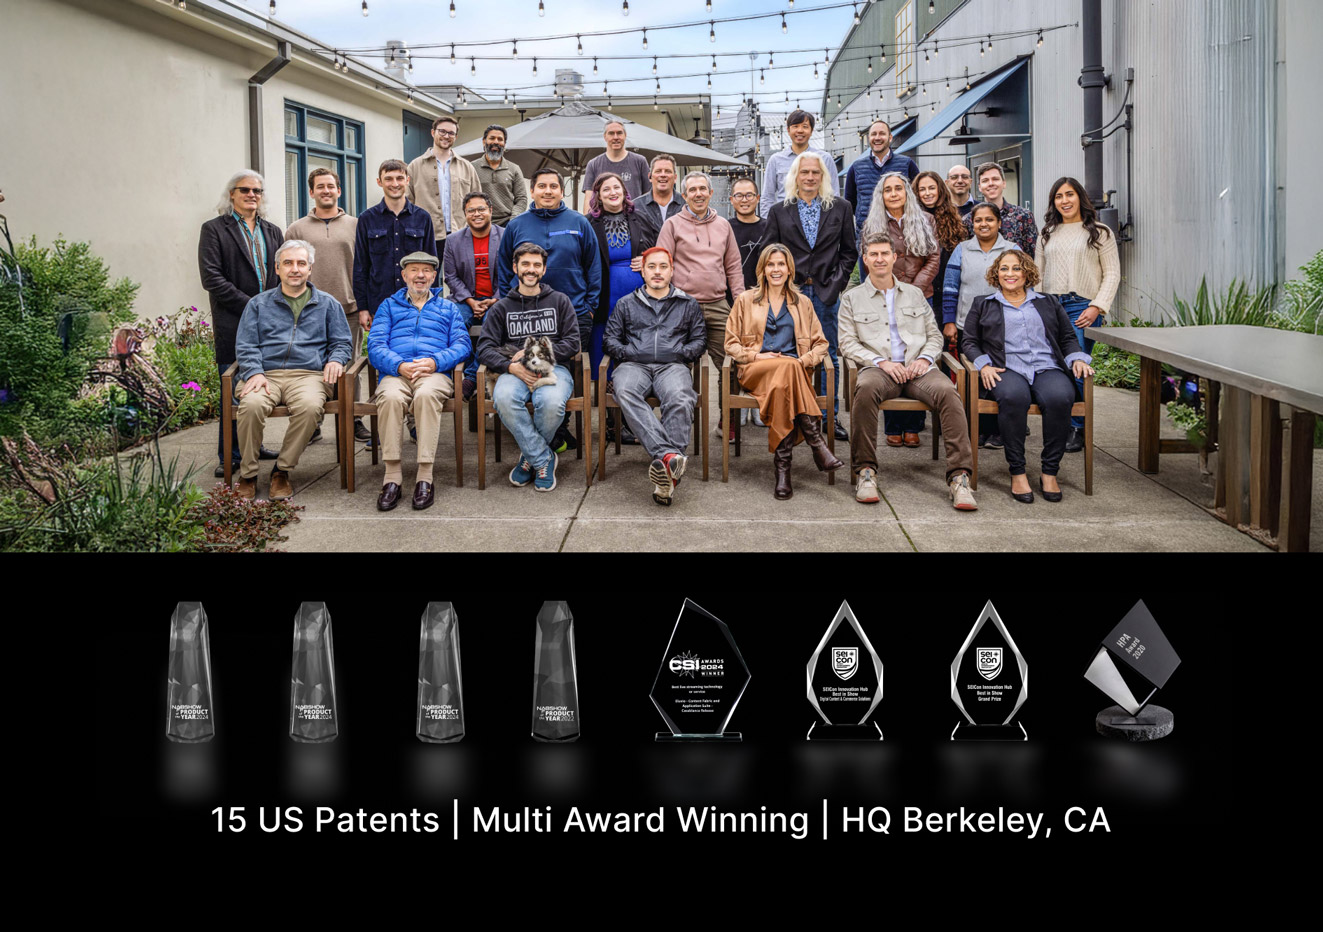
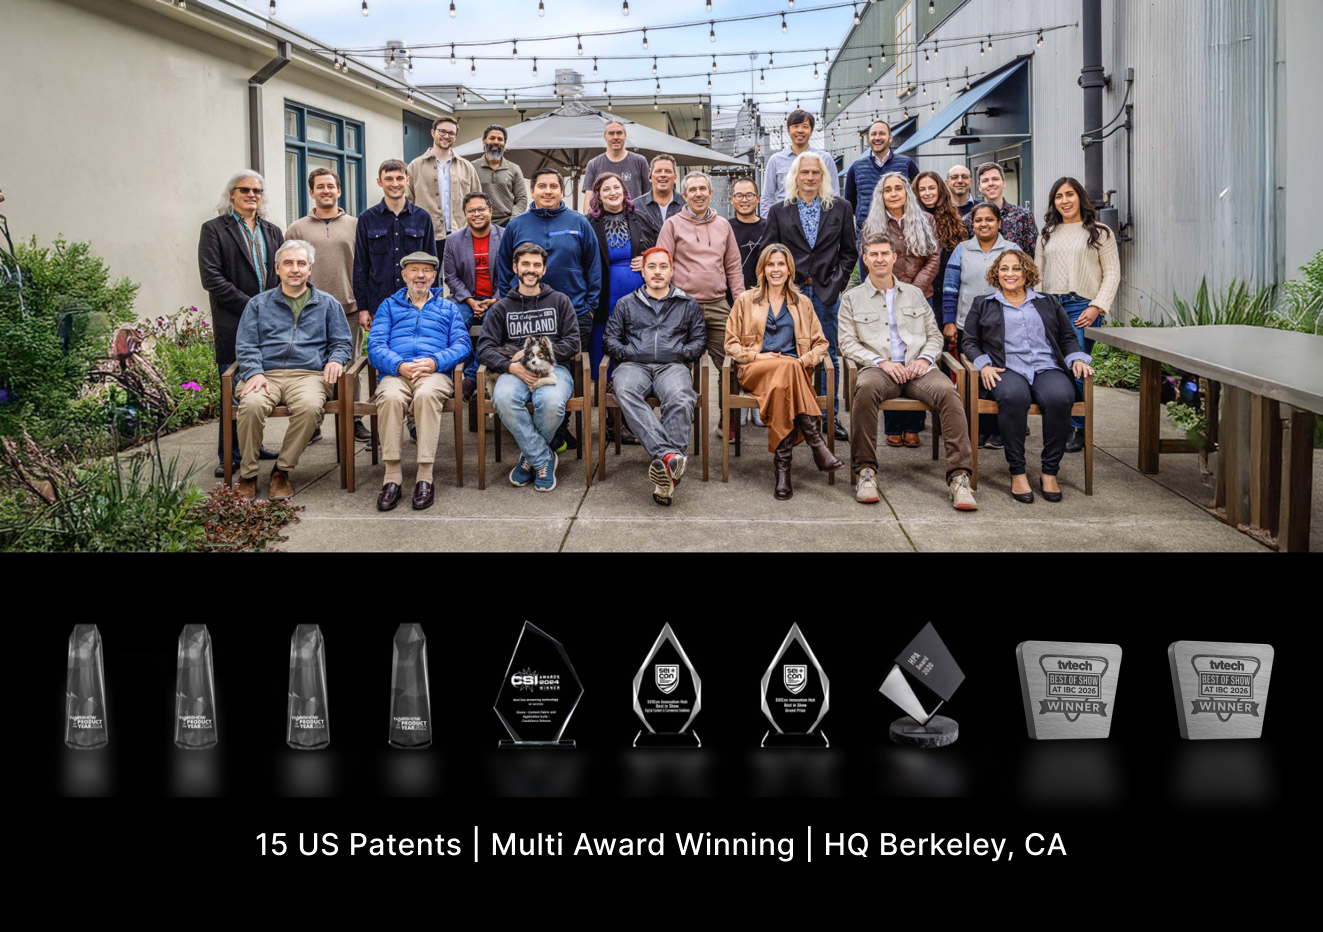
Update link with ibc awards

diff --git a/src/main/pages/main/Main.js b/src/main/pages/main/Main.js
@@ -27,8 +27,8 @@ import {
 } from "../../static/icons/Icons";
 import {SocialIcons} from "../../static/icons/Icons";
 
-import EluvioColorLogo from "../../static/images/logos/eluvio-logo-color.png";
-import IBC2026Logo from "../../static/images/main/ibc-2026-logo";
+import EluvioColorLogo from "../../static/images/logos/logo-ibc-2026-win.png";
+import IBC2026Logo from "../../static/images/main/ibc-2026-logo-mark";
 
 import AppIconFB from "../../static/icons/apps_new/1_Fabric_Browser";
 import AppIconIngest from "../../static/icons/apps_new/2_Media_Ingest";
@@ -38,7 +38,7 @@ import AppIconEvie from "../../static/icons/apps_new/5_Evie";
 import AppIconAI from "../../static/icons/apps_new/6_AI_Search";
 import AppIconAnalytics from "../../static/icons/apps_new/7_Analytics";
 
-import HeaderBackgroundImage from "../../static/images/main/dot-header-bg.webp";
+import HeaderBackgroundImage from "../../static/images/main/dot-header-bg-light.webp";
 import AnalyticsApp from "../../static/images/main/apps/03-content-analytics-and-reporting.webp";
 import AiSearchApp from "../../static/images/main/apps/02-ai-content-search-and management.webp";
 import EvieApp from "../../static/images/main/apps/01-eluvio-video-intelligence-editor.webp";
@@ -68,7 +68,6 @@ import EluvioGroupMobileImage from "../../static/images/main/team-card-mobile.jp
 import ClientGroupDesktopImage from "../../static/images/main/clients/client-group-desktop";
 import ClientGroupMobileImage from "../../static/images/main/clients/client-group-mobile";
 import {
-  Anchor,
   AspectRatio,
   BackgroundImage,
   Box,
@@ -85,37 +84,37 @@ import styles from "../../static/modules/Main.module.css";
 
 const HeaderBlock = observer(({mobile}) => {
   return (
-    <MainHeader video={false} backgroundImage={HeaderBackgroundImage}>
+    <MainHeader video={false} backgroundImage={HeaderBackgroundImage} autoHeight>
       <Box maw={1440}>
-        <Flex direction={mobile ? "column" : "row"} gap={{base: 20, lg: 50}} align={mobile ? "center" : "flex-start"}>
-          <Box flex={1} pt={{base: 0, lg: 30}} align="center" w="100%">
-            <Image src={EluvioColorLogo} h="auto" flex={1} maw="100%" p={{base: "0 70px", sm: "0 30px", lg: 0}} w={{base: "100%", sm: "60%", lg: "100%"}} m="auto" />
-          </Box>
-          <Flex direction="column" flex={2} gap={{base: 20, lg: 32}} align={mobile ? "center" : "flex-start"} ta={mobile ? "center" : ""}>
+        <Flex direction={mobile ? "column" : "row"} gap={{base: 20, lg: 50}} align={mobile ? "center" : "stretch"}>
+          <Flex flex={2} pt={{base: 0, lg: 30}} align="center" justify="center" w="100%">
+            <Image src={EluvioColorLogo} h="auto" flex={1} maw="100%" p={{base: "0 70px", sm: "0 30px", lg: 0}} w={{base: "100%", sm: "60%", md: "90%", lg: "100%"}} m="auto" />
+          </Flex>
+          <Flex direction="column" flex={3} gap={{base: 20, lg: 32}} align={mobile ? "center" : "flex-start"} ta={mobile ? "center" : ""}>
             <Title
               order={2}
               fz={{base: "1.25rem", sm: "1.675rem", lg: "1.75rem"}}
               fw={mobile ? 500 : 600}
-              c="white.0"
+              c="var(--color-text-light-1)"
             >
               { mainStore.l10n.main.heading.top_header }
             </Title>
-            <Title fw={600} c="white.0" fz={{base: "1.75rem", sm: "2.25rem", lg: "2.875rem"}} lh="137%" className={styles.headerMainTitle}>{ mainStore.l10n.main.heading.header }</Title>
+            <Title fw={600} c="var(--color-text-light-1)" fz={{base: "1.75rem", sm: "2.25rem", lg: "2.875rem"}} lh="137%" className={styles.headerMainTitle}>{ mainStore.l10n.main.heading.header }</Title>
 
             {
               mobile &&
-              <MantineButton color="white.0" radius={5} component="a" href="https://eluv.io/community" target="_blank" size="xs" h="auto" py="sm" style={{whiteSpace: "normal"}}>
-                <Text fz={15} fw={700} lh={1.4} c="black.0" style={{whiteSpace: "normal"}}>
-                  See us at &nbsp;<ImageIcon icon={IBC2026Logo} height={25} style={{display: "inline-block", verticalAlign: "middle"}} />. Check out <Anchor href="https://ibc.eluv.io" target="_blank" c="black.0" fw={700} underline="always" onClick={event => event.stopPropagation()}>ibc.eluv.io</Anchor> for the new product announcements, demo schedule and more →
+              <MantineButton color="black.9" radius={5} component="a" href="https://eluv.io/community" target="_blank" size="xs" h="auto" py="sm" style={{whiteSpace: "normal"}}>
+                <Text fz={15} fw={700} lh={1.4} c="white.0" style={{whiteSpace: "normal"}}>
+                  Eluvio wins 2x at &nbsp;<ImageIcon icon={IBC2026Logo} height={25} style={{display: "inline-block", verticalAlign: "middle"}} />&nbsp; IBC 2026. Explore the award-winning Content Fabric and Video Intelligence →
                 </Text>
               </MantineButton>
             }
 
-            <Text c="white.0" fz={{base: "1.25rem", sm: "1.5rem", lg: "1.75rem"}} fw={mobile ? 500 : 600} className={styles.headerSubduedText}>{ mainStore.l10n.main.heading.subheader }</Text>
+            <Text c="var(--color-text-light-1)" fz={{base: "1.25rem", sm: "1.5rem", lg: "1.75rem"}} fw={mobile ? 500 : 600} className={styles.headerSubduedText}>{ mainStore.l10n.main.heading.subheader }</Text>
             {
               !mobile &&
               <MantineButton
-                color="white.0"
+                color="black.9"
                 radius={5}
                 component="a"
                 href="https://eluv.io/community"
@@ -130,8 +129,8 @@ const HeaderBlock = observer(({mobile}) => {
               >
                 <Stack gap={6} align="start">
                   <Group gap={8}>
-                    <Text fz={15} fw={700} lh={1.4} c="black.0">
-                      See us at &nbsp;<ImageIcon icon={IBC2026Logo} height={25} style={{display: "inline-block", verticalAlign: "middle"}} />. Check out <Anchor href="https://ibc.eluv.io" target="_blank" c="black.0" fw={700} underline="always" onClick={event => event.stopPropagation()}>ibc.eluv.io</Anchor> for the new product announcements, demo schedule and more →
+                    <Text fz={15} fw={700} lh={1.4} c="white.0">
+                      Eluvio wins 2x at &nbsp;<ImageIcon icon={IBC2026Logo} height={25} style={{display: "inline-block", verticalAlign: "middle"}} />&nbsp; IBC 2026. Explore the award-winning Content Fabric and Video Intelligence →
                     </Text>
                   </Group>
                 </Stack>

diff --git a/src/main/components/Header.js b/src/main/components/Header.js
@@ -19,42 +19,46 @@ export const NotificationBanner = observer(({className="", mobile}) => {
 
   return (
     <div className={`notification-banner ${className}`}>
-      <h3>{ mainStore.notification.header }</h3>
       {
         mobile ?
           (
-            <Flex direction="row" wrap="nowrap" w="100%" gap={8}>
-              <Flex direction="row" wrap="nowrap" w="100%" miw={0} pos="relative">
-                <Text richText={mainStore.notification.plain_text} className="notification-banner__text" fz={14}>
-                  { mainStore.notification.plain_text }
-                </Text>
-                <Box className="notification-banner__text-gradient" />
-              </Flex>
-              <Box flex={1}>
-                <Action to={mainStore.notification.link}>
-                  <Text fz={14} fw={700} wrap="nowrap">
-                    { mainStore.notification.link_text } →
+            <Flex direction="column" w="100%">
+              <h3>{ mainStore.notification.header }</h3>
+              <Flex direction="row" wrap="nowrap" w="100%" gap={8}>
+                <Flex direction="row" wrap="nowrap" w="100%" miw={0} pos="relative">
+                  <Text richText={mainStore.notification.plain_text} className="notification-banner__text" fz={14} truncate="end">
+                    { mainStore.notification.plain_text }
                   </Text>
-                </Action>
-              </Box>
+                </Flex>
+                <Box flex={1}>
+                  <Action to={mainStore.notification.link}>
+                    <Text fz={14} fw={700} wrap="nowrap" truncate="end">
+                      { mainStore.notification.link_text } →
+                    </Text>
+                  </Action>
+                </Box>
+              </Flex>
             </Flex>
           ) :
           (
-            <Flex direction="row" gap={6} justify="center" wrap="nowrap" w="100%">
-              <Box maw="100%" miw={0} pos="relative" className="notification-banner__text-gradient-container">
-                <Text className="notification-banner__text-desktop" lineClamp={1} fz={16} fw={500} truncate={"end"}>
-                  {mainStore.notification.plain_text}
-                </Text>
-                <Box className="notification-banner__text-gradient" />
-              </Box>
-              <Box flex={1}>
-                <Action to={mainStore.notification.link}>
-                  <Text fz={mobile ? 14 : 16} fw={700}>
-                    { mainStore.notification.link_text } →
+            <>
+              <h3>{ mainStore.notification.header }</h3>
+              <Flex direction="row" gap={6} justify="center" wrap="nowrap" w="100%">
+                <Box maw="100%" miw={0} pos="relative" className="notification-banner__text-gradient-container">
+                  <Text className="notification-banner__text-desktop" lineClamp={1} fz={16} fw={500} truncate={"end"}>
+                    {mainStore.notification.plain_text}
                   </Text>
-                </Action>
-              </Box>
-            </Flex>
+                  <Box className="notification-banner__text-gradient" />
+                </Box>
+                <Box flex={1}>
+                  <Action to={mainStore.notification.link}>
+                    <Text fz={mobile ? 14 : 16} fw={700} truncate="end">
+                      { mainStore.notification.link_text } →
+                    </Text>
+                  </Action>
+                </Box>
+              </Flex>
+            </>
           )
       }
     </div>

diff --git a/src/main/static/stylesheets/main.scss b/src/main/static/stylesheets/main.scss
@@ -1,6 +1,6 @@
 .main-page-header {
-  background: var(--background-dark-1);
-  color: var(--color-text-dark-1);
+  background: var(--background-light-2);
+  color: var(--color-text-light-1);
   height: 750px;
   position: relative;
   user-select: none;
@@ -11,6 +11,16 @@
 
     .main-page-header__content {
       padding-top: 50px;
+    }
+  }
+
+  &--auto-height {
+    height: auto;
+    min-height: fit-content;
+
+    .main-page-header__content {
+      height: auto;
+      position: relative;
     }
   }
 
@@ -27,10 +37,12 @@
 
   &__image-bg {
     &::after {
-      background: linear-gradient(to bottom, rgb(0 0 0 / 75%) 0%, rgb(0 0 0 / 0%) 100%);
+      //background: linear-gradient(to bottom, rgb(0 0 0 / 75%) 0%, rgb(0 0 0 / 0%) 100%);
       content: "";
       height: 100%;
+      left: 0;
       position: absolute;
+      top: 0;
       width: 100%;
     }
   }
@@ -142,19 +154,12 @@
     }
 
     &__subheader {
-      color: var(--color-text-dark-1);
+      color: var(--color-text-light-1);
       font-size: var(--font-size-feature-subheader);
     }
 
     &__subheader-container {
       font-weight: 600;
-      text-shadow: 0 2px 4px rgb(0 0 0 / 50%);
-    }
-
-    &__subheader-container-text {
-      &--text-overlay {
-        text-shadow: 0 2px 7px rgb(0 0 0 / 95%);;
-      }
     }
 
     &__featured-link {
@@ -351,7 +356,7 @@
     }
 
     &__content {
-      padding: 85px 80px 50px 90px;
+      padding: 85px 80px 80px 90px;
     }
   }
 
@@ -1070,7 +1075,7 @@
   }
 
   &__app-tabs-container {
-    min-height: 50vh;
+    //min-height: 50vh;
   }
 
   &__app-tabs {
@@ -1123,7 +1128,7 @@
   &__app-tabs-panel-content {
     display: flex;
     flex-direction: row;
-    gap: 0;
+    gap: 30px;
     width: 100%;
 
     .image-icon {

diff --git a/src/main/pages/main/Shared.js b/src/main/pages/main/Shared.js
@@ -12,9 +12,9 @@ const HeaderVideo = observer(() => {
   );
 });
 
-export const MainHeader = ({children, backgroundImage, video=true}) => {
+export const MainHeader = ({children, backgroundImage, video=true, autoHeight=false}) => {
   return (
-    <div className="main-page-header main-page-header__image-bg" style={backgroundImage ? {
+    <div className={`main-page-header main-page-header__image-bg${autoHeight ? " main-page-header--auto-height" : ""}`} style={backgroundImage ? {
       backgroundImage: `url(${backgroundImage})`,
       backgroundSize: "cover",
       backgroundRepeat: "no-repeat"
@@ -23,7 +23,7 @@ export const MainHeader = ({children, backgroundImage, video=true}) => {
       <div className="main-page-header__content">
         { children }
       </div>
-      <div className="main-page-header__gradient" />
+      {/*<div className="main-page-header__gradient" />*/}
     </div>
   );
 };

diff --git a/src/main/static/modules/Main.module.css b/src/main/static/modules/Main.module.css
@@ -1,21 +1,6 @@
 .headerSubduedText {
   line-height: 132%;
   position: relative;
-  text-shadow:
-    0 1px 3px rgb(0 0 0 / 90%),
-    0 3px 8px rgb(0 0 0 / 80%),
-    0 8px 20px rgb(0 0 0 / 70%),
-    0 16px 32px rgb(0 0 0 / 50%);
-
-  &::before {
-    background: radial-gradient(ellipse at center, rgb(0 0 0 / 35%) 0%, transparent 70%);
-    border-radius: 50%;
-    content: "";
-    inset: -30% -15%;
-    pointer-events: none;
-    position: absolute;
-    z-index: -1;
-  }
 }
 
 .headerMainTitle {

diff --git a/src/main/static/stylesheets/header.scss b/src/main/static/stylesheets/header.scss
@@ -318,9 +318,7 @@
   font-size: var(--font-size-body-5);
   gap: 5px;
   justify-content: center;
-  margin-top: -50px;
   padding: 15px var(--horizontal-content-padding) 15px;
-  position: relative;
   z-index: 5;
 
   &__text-gradient-container {
@@ -393,7 +391,6 @@
 
   @media screen and (max-width: $width-tablet) {
     height: 70px;
-    margin-top: -70px;
 
     &__text {
       overflow-x: scroll;
